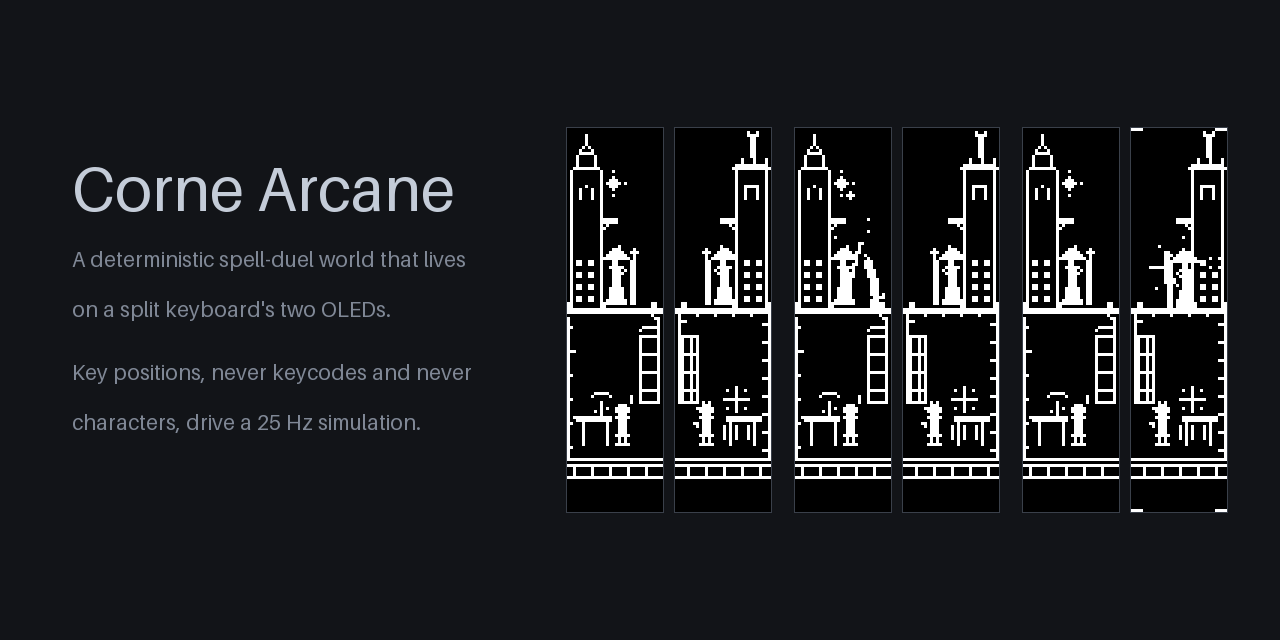
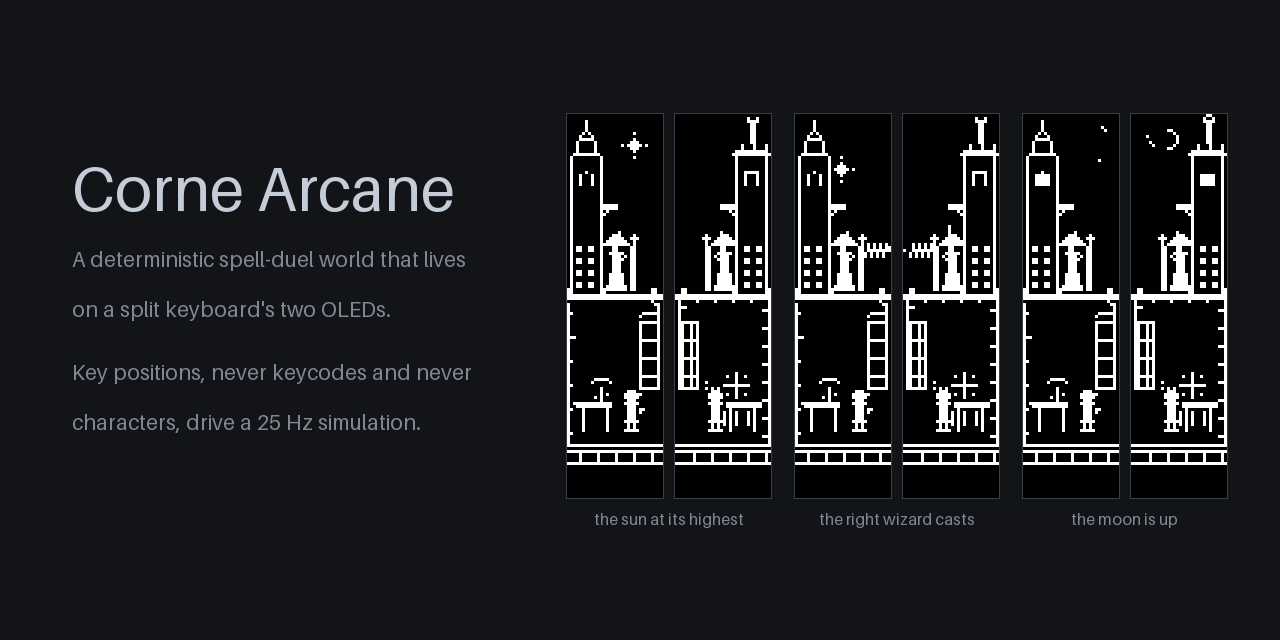
build: publish firmware releases from a tag, and add a contributing note
A stranger who wants this on a keyboard currently has to clone Vial-QMK at a
pinned revision, install an ARM toolchain, sync a keymap in, and run a QMK
build before seeing anything. A prebuilt image reduces that to copying one file
onto the bootloader drive.

A tag named fw-v* now builds and publishes. The firmware version lives in the
tag and nowhere in the tree, so it has no second place to drift, and it stays
separate from the host package version, which tracks its own cadence in
host/pyproject.toml.

Only the release image ships. The same build produces a diagnostic image and
two pacing candidates that exist for measurement and have never been flashed,
and the staging step asserts they are absent. The image is named for the
project it belongs to. The notes state the hardware it assumes, point at the
flashing guide and its warning about TRRS, and record that the corresponding
source for these binaries is the tagged commit, which is what the licence
requires of a binary download.

Running the workflow by hand builds and checks every asset and publishes
nothing, so the pipeline can be exercised before a tag exists.

CONTRIBUTING.md leads with the golden review rule, because re-baselining a
failing visual test is the one mistake this repository invites and the least
obvious to someone arriving from another project.

diff --git a/tools/figures.py b/tools/figures.py
@@ -175,8 +175,14 @@ def fields_animation(frames, out_dir):
     return animate(cells, 20, 26, font(17), out_dir / "fields.gif", 550)
 
 
-# The repository's social preview. GitHub renders this at 1280x640.
-SOCIAL = ["scenario_duel-idle", "scenario_long-cast", "scenario_impact"]
+# The repository's social preview. GitHub renders this at 1280x640. The three
+# panels are one world at three points in its day: the sun high, the right
+# wizard mid-cast, and the moon up over a different district.
+SOCIAL = [
+    ("sky_commons_day", "the sun at its highest"),
+    ("side_1_voice_3_form_6", "the right wizard casts"),
+    ("sky_commons_night", "the moon is up"),
+]
 SOCIAL_TEXT = [
     ("Corne Arcane", 62, INK, 0),
     ("A deterministic spell-duel world that lives", 21, DIM, 34),
@@ -195,10 +201,19 @@ def social_figure(frames, out_dir):
         y += lead
         drawer.text((72, y), text, fill=fill, font=font(size))
         y += size
+    label_font = font(16)
     x = 566
-    for name in SOCIAL:
+    for name, label in SOCIAL:
         panels = cell(frames, name, name, 3, 10)
-        img.paste(panels, (x, (640 - panels.height) // 2))
+        top = (640 - panels.height) // 2 - 14
+        img.paste(panels, (x, top))
+        drawer.text(
+            (x + panels.width // 2, top + panels.height + 20),
+            label,
+            fill=DIM,
+            font=label_font,
+            anchor="mm",
+        )
         x += panels.width + 22
     path = out_dir / "social-preview.png"
     img.save(path, optimize=True)

diff --git a/CONTRIBUTING.md b/CONTRIBUTING.md
@@ -1,0 +1,66 @@
+# Contributing
+
+This is one person's keyboard, published because it might be useful or
+interesting to someone else. Issues and patches are welcome, and there is no
+roadmap you need to fit into.
+
+Before anything else, please read the one rule that is easy to break by
+accident.
+
+## Goldens are reviewed, never regenerated
+
+`firmware/sim_test/golden/visual_current.hashes` holds 622 exact framebuffer
+hashes. When a visual test fails, the failure is the point. It is telling you
+that a rendering change happened, and the job is to look at that change and
+decide whether it was intended.
+
+Do not re-baseline to make the suite green. Instead, dump the frames and look
+at them:
+
+```bash
+firmware/sim_test/visual_runner --dump-pgm /tmp/frames
+python3 tools/contact_sheet.py /tmp/frames sheet --only <the changed scene>
+```
+
+A golden moves only in the same change that explains the new presentation
+contract and tests it. The same applies to the figures in the documentation,
+which come from that dump through `tools/figures.py` and should be regenerated
+in the change that moves the goldens.
+
+## Running the checks
+
+```bash
+make test      # mechanics, 622 visual scenes, allocation scan, host tests
+make lint      # ruff and clang-format
+make hygiene   # repository conventions
+```
+
+All three run in CI on every push, so a green local run usually means a green
+pull request. `make test` needs a C compiler and Python but no keyboard and no
+QMK checkout.
+
+## Two invariants that are load-bearing
+
+**Determinism.** The simulation uses fixed ticks, integer arithmetic, explicit
+state, and no time reads inside mechanics. Nothing that allocates or reads a
+clock belongs in the simulation path. This is what makes a catalog of exact
+hashes a usable test.
+
+**Privacy.** The host normalizes to bounded enums, counters, durations, and
+salted digests before anything is retained. Window titles, URLs, file paths,
+command lines, notification bodies, and typed text have no path into retained
+state or onto either wire protocol. That property comes from the shape of the
+code, not from a filter, and a change that would make it depend on filtering is
+a change to the architecture.
+
+If you are unsure whether something crosses one of these, say so in the issue
+or the pull request and it can be worked out there.
+
+## Style
+
+`make lint` settles formatting, so there is nothing to memorise. Commit
+messages describe what changed and why, in ordinary sentences.
+
+For the vocabulary used throughout the code and documentation, see
+[`docs/glossary.md`](docs/glossary.md). For how the simulation works, see
+[`docs/duel.md`](docs/duel.md).

diff --git a/README.md b/README.md
@@ -127,6 +127,7 @@ path that could leak content even if something upstream misbehaved.
 - Host daemon and adapters: [`host/README.md`](host/README.md)
 - NixOS specifics: [`BUILD_NOTES_NIXOS.md`](BUILD_NOTES_NIXOS.md)
 - Where the images come from: [`docs/images/README.md`](docs/images/README.md)
+- Patching this, and the one rule about goldens: [`CONTRIBUTING.md`](CONTRIBUTING.md)
 - Deferred product work: [`docs/backlog.md`](docs/backlog.md)
 
 ## License
